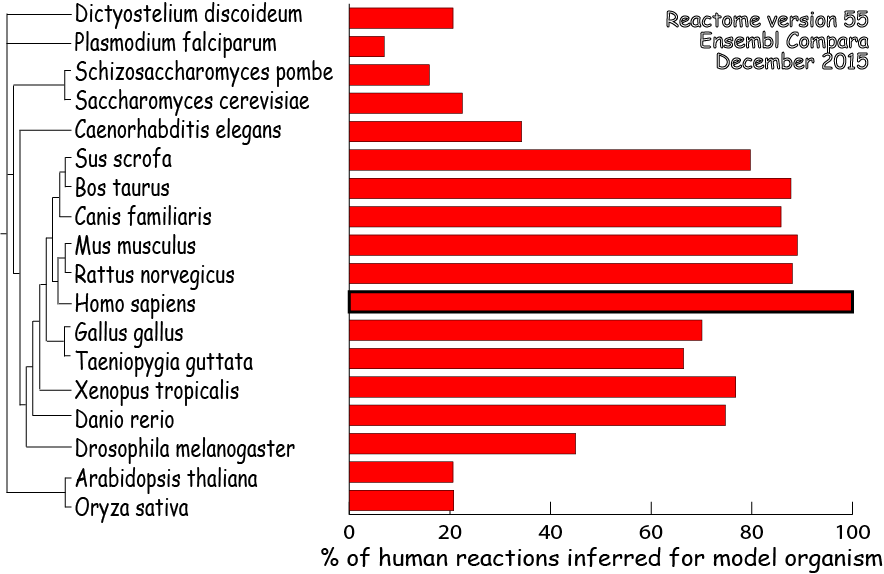
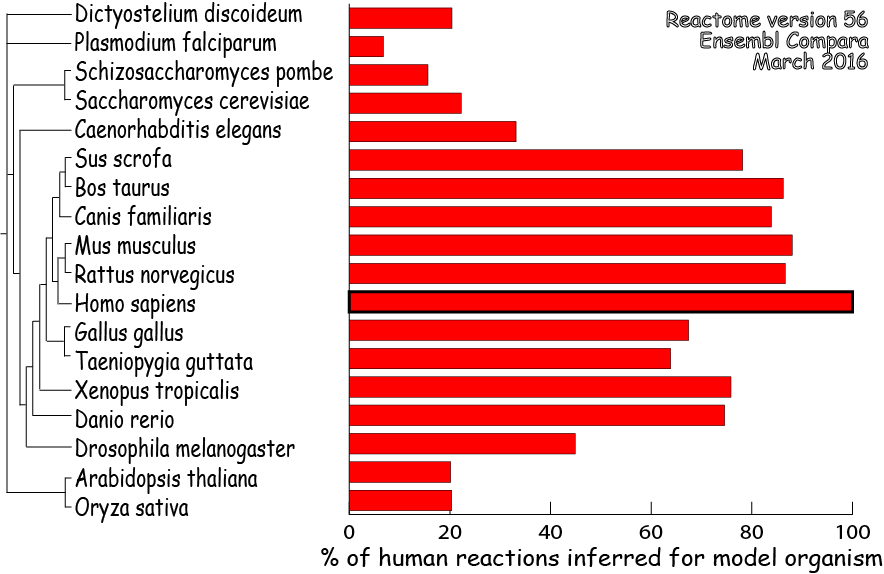
version 56

diff --git a/scripts/release/website_files_update/stats.html b/scripts/release/website_files_update/stats.html
@@ -7,7 +7,7 @@
 
     <body>
 	<!--#include virtual="/cgi-bin/navigation_bar" -->
-	<h1 class="frontpage">Reactome Statistics (Version 55)</h1>
+	<h1 class="frontpage">Reactome Statistics (Version 56)</h1>
 	    
 	<!-- Start of the stats table  -->
 	<table border="0" width="90%" cellpadding="0" cellspacing="0" class="classbrowser">
@@ -23,146 +23,146 @@
 		    
 		    <tr height="18" class="own">
 			<td height="25" class="own">D. discoideum</td>
-			<td class="own" align="center">1640</td>
-			<td class="own" align="center">1463</td>
-			<td class="own" align="center">1365</td>
-			<td class="own" align="center">795</td>
+			<td class="own" align="center">1804</td>
+			<td class="own" align="center">1626</td>
+			<td class="own" align="center">1450</td>
+			<td class="own" align="center">819</td>
 		    </tr>
 		    
 		    <tr height="18" class="own">
 			<td height="25" class="own">P. falciparum</td>
-			<td class="own" align="center">610</td>
-			<td class="own" align="center">456</td>
-			<td class="own" align="center">460</td>
-			<td class="own" align="center">351</td>
+			<td class="own" align="center">649</td>
+			<td class="own" align="center">511</td>
+			<td class="own" align="center">481</td>
+			<td class="own" align="center">364</td>
 		    </tr>
 		    
 		    <tr height="18" class="own">
 			<td height="25" class="own">S. pombe</td>
-			<td class="own" align="center">1216</td>
-			<td class="own" align="center">1140</td>
-			<td class="own" align="center">1058</td>
-			<td class="own" align="center">699</td>
+			<td class="own" align="center">1340</td>
+			<td class="own" align="center">1243</td>
+			<td class="own" align="center">1116</td>
+			<td class="own" align="center">717</td>
 		    </tr>
 		    
 		    <tr height="18" class="own">
 			<td height="25" class="own">S. cerevisiae</td>
-			<td class="own" align="center">1433</td>
-			<td class="own" align="center">1536</td>
-			<td class="own" align="center">1555</td>
-			<td class="own" align="center">785</td>
+			<td class="own" align="center">1522</td>
+			<td class="own" align="center">1685</td>
+			<td class="own" align="center">1652</td>
+			<td class="own" align="center">835</td>
 		    </tr>
 		    
 		    <tr height="18" class="own">
 			<td height="25" class="own">C. elegans</td>
-			<td class="own" align="center">4069</td>
-			<td class="own" align="center">2418</td>
-			<td class="own" align="center">2267</td>
-			<td class="own" align="center">999</td>
+			<td class="own" align="center">4526</td>
+			<td class="own" align="center">2638</td>
+			<td class="own" align="center">2355</td>
+			<td class="own" align="center">1039</td>
 		    </tr>
 		    
 		    <tr height="18" class="own">
 			<td height="25" class="own">S. scrofa</td>
-			<td class="own" align="center">8548</td>
-			<td class="own" align="center">5877</td>
-			<td class="own" align="center">5282</td>
-			<td class="own" align="center">1365</td>
+			<td class="own" align="center">8436</td>
+			<td class="own" align="center">6250</td>
+			<td class="own" align="center">5562</td>
+			<td class="own" align="center">1410</td>
 		    </tr>
 		    
 		    <tr height="18" class="own">
 			<td height="25" class="own">B. taurus</td>
-			<td class="own" align="center">7553</td>
-			<td class="own" align="center">6486</td>
-			<td class="own" align="center">5874</td>
-			<td class="own" align="center">1401</td>
+			<td class="own" align="center">7876</td>
+			<td class="own" align="center">6867</td>
+			<td class="own" align="center">6191</td>
+			<td class="own" align="center">1456</td>
 		    </tr>
 		    
 		    <tr height="18" class="own">
 			<td height="25" class="own">C. familiaris</td>
-			<td class="own" align="center">8074</td>
-			<td class="own" align="center">6341</td>
-			<td class="own" align="center">5688</td>
-			<td class="own" align="center">1395</td>
+			<td class="own" align="center">8809</td>
+			<td class="own" align="center">6761</td>
+			<td class="own" align="center">5968</td>
+			<td class="own" align="center">1439</td>
 		    </tr>
 		    
 		    <tr height="18" class="own">
 			<td height="25" class="own">M. musculus</td>
-			<td class="own" align="center">9023</td>
-			<td class="own" align="center">7262</td>
-			<td class="own" align="center">6537</td>
-			<td class="own" align="center">1421</td>
+			<td class="own" align="center">9354</td>
+			<td class="own" align="center">7702</td>
+			<td class="own" align="center">6907</td>
+			<td class="own" align="center">1505</td>
 		    </tr>
 		    
 		    <tr height="18" class="own">
 			<td height="25" class="own">R. norvegicus</td>
-			<td class="own" align="center">8203</td>
-			<td class="own" align="center">6614</td>
-			<td class="own" align="center">6033</td>
-			<td class="own" align="center">1398</td>
+			<td class="own" align="center">9157</td>
+			<td class="own" align="center">7045</td>
+			<td class="own" align="center">6364</td>
+			<td class="own" align="center">1460</td>
 		    </tr>
 		    
 		    <tr height="18" class="own">
 			<td height="25" class="own">*H. sapiens</td>
-			<td class="own" align="center">8693</td>
-			<td class="own" align="center">8833</td>
-			<td class="own" align="center">9052</td>
-			<td class="own" align="center">1937</td>
+			<td class="own" align="center">9238</td>
+			<td class="own" align="center">9422</td>
+			<td class="own" align="center">9584</td>
+			<td class="own" align="center">2007</td>
 		    </tr>
 		    
 		    <tr height="18" class="own">
 			<td height="25" class="own">G. gallus</td>
-			<td class="own" align="center">5982</td>
-			<td class="own" align="center">5626</td>
-			<td class="own" align="center">4990</td>
-			<td class="own" align="center">1425</td>
+			<td class="own" align="center">6323</td>
+			<td class="own" align="center">5858</td>
+			<td class="own" align="center">5142</td>
+			<td class="own" align="center">1461</td>
 		    </tr>
 		    
 		    <tr height="18" class="own">
 			<td height="25" class="own">T. guttata</td>
-			<td class="own" align="center">5648</td>
-			<td class="own" align="center">5018</td>
-			<td class="own" align="center">4397</td>
-			<td class="own" align="center">1316</td>
+			<td class="own" align="center">5953</td>
+			<td class="own" align="center">5205</td>
+			<td class="own" align="center">4536</td>
+			<td class="own" align="center">1357</td>
 		    </tr>
 		    
 		    <tr height="18" class="own">
 			<td height="25" class="own">X. tropicalis</td>
-			<td class="own" align="center">7639</td>
-			<td class="own" align="center">5675</td>
-			<td class="own" align="center">5085</td>
-			<td class="own" align="center">1363</td>
+			<td class="own" align="center">7577</td>
+			<td class="own" align="center">6080</td>
+			<td class="own" align="center">5390</td>
+			<td class="own" align="center">1409</td>
 		    </tr>
 		    
 		    <tr height="18" class="own">
 			<td height="25" class="own">D. rerio</td>
-			<td class="own" align="center">10388</td>
-			<td class="own" align="center">5576</td>
-			<td class="own" align="center">4948</td>
-			<td class="own" align="center">1362</td>
+			<td class="own" align="center">11340</td>
+			<td class="own" align="center">6004</td>
+			<td class="own" align="center">5302</td>
+			<td class="own" align="center">1410</td>
 		    </tr>
 		    
 		    <tr height="18" class="own">
 			<td height="25" class="own">D. melanogaster</td>
-			<td class="own" align="center">7614</td>
-			<td class="own" align="center">3341</td>
-			<td class="own" align="center">2994</td>
-			<td class="own" align="center">1142</td>
+			<td class="own" align="center">8243</td>
+			<td class="own" align="center">3650</td>
+			<td class="own" align="center">3210</td>
+			<td class="own" align="center">1186</td>
 		    </tr>
 		    
 		    <tr height="18" class="own">
 			<td height="25" class="own">A. thaliana</td>
-			<td class="own" align="center">3551</td>
-			<td class="own" align="center">1398</td>
-			<td class="own" align="center">1363</td>
-			<td class="own" align="center">747</td>
+			<td class="own" align="center">3873</td>
+			<td class="own" align="center">1539</td>
+			<td class="own" align="center">1430</td>
+			<td class="own" align="center">762</td>
 		    </tr>
 		    
 		    <tr height="18" class="own">
 			<td height="25" class="own">O. sativa</td>
-			<td class="own" align="center">3742</td>
-			<td class="own" align="center">1475</td>
-			<td class="own" align="center">1373</td>
-			<td class="own" align="center">761</td>
+			<td class="own" align="center">4057</td>
+			<td class="own" align="center">1604</td>
+			<td class="own" align="center">1444</td>
+			<td class="own" align="center">779</td>
 		    </tr>
 		    
 		    <tr height="18" class="own">
@@ -182,7 +182,7 @@
 
 	<div style="font-size:9pt;text-align:left;color:black;padding-top:10px;width=40%">
 	    *Reactome annotates to protein isoforms when this information is available.<br />
-	    The total number of curated human proteins including isoforms is 8840
+	    The total number of curated human proteins including isoforms is 9386
 	</div>
 
 	<!--#include virtual="/cgi-bin/footer" -->
